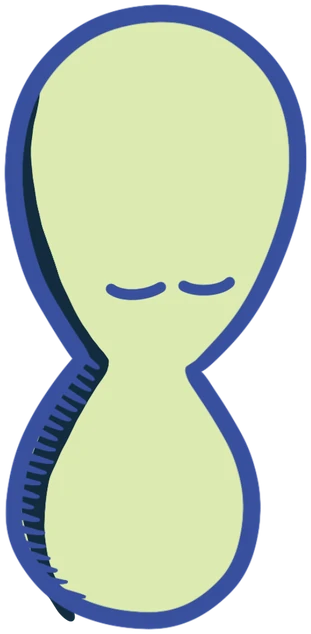
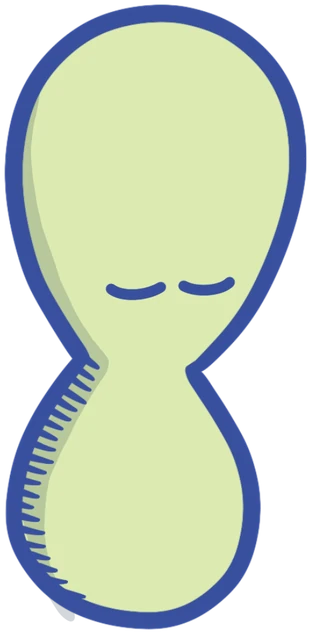
Shading at the card's opacity; no pink line under Transformación's ground
The shading of the two beings of Belleza (19, 23), of the three beings of Confianza (9), the moon's crater strokes in
Coraje (4) and the seed's shading in Transformación (25) were exported without their layer opacity: drawn at full
strength they came out near black and read as a fill shifted off its outline. Each converter now puts the opacity back
(18%, 10%, 50% and 34%, measured against the finished card: the error on those layers drops from 60-100 to 2-8 per
channel) and the pictures are made again; nothing else changed in them.

Transformación's sky gradient now turns to the ground's blue well below its horizon, so the pink no longer shows as a
line under the ground when the land slides with the scroll or the screen rounds its edge.

Claude-Session: https://claude.ai/code/session_01WTSfarsaRbQ4zQwAYYhqZ8

Changed region(s): [[0.0579, 0.1498, 0.3473, 0.989]]

diff --git a/src/components/scenes/SceneTransformacion.vue b/src/components/scenes/SceneTransformacion.vue
@@ -200,10 +200,16 @@
         near.enter({ y: -25, scale: 0.9, delay: 700, duration: 2200 });
     };
 
-    // The sky, from the card (flat pink, a little lighter low down where the card is)
+    // The sky, from the card (flat pink, a little lighter low down where the card is); under the ground the blue of the
+    // ground, so no pink shows under it when the land slides with the scroll or the screen rounds its edge (a pink line
+    // at the bottom of the stage on an iPhone)
+    const GROUND = '#69b8e2';
+    const UNDER = 1880;                     // art px: well inside the ground's solid blue, below its horizon everywhere
     const paintSky = () => {
-        const stops = art.sky.map(([y, c]) => `#${c.toString(16).padStart(6, '0')} ${Math.max(-50, Math.min(150, sy(y) / Math.max(H, 1) * 100)).toFixed(1)}%`);
-        root.value.style.background = `linear-gradient(to bottom, ${stops.join(', ')})`;
+        const at = (y) => `${Math.max(-50, Math.min(150, sy(y) / Math.max(H, 1) * 100)).toFixed(1)}%`;
+        const stops = art.sky.filter(([y]) => y < UNDER).map(([y, c]) => `#${c.toString(16).padStart(6, '0')} ${at(y)}`);
+        const last = `#${art.sky[art.sky.length - 1][1].toString(16).padStart(6, '0')}`;
+        root.value.style.background = `linear-gradient(to bottom, ${stops.join(', ')}, ${last} ${at(UNDER)}, ${GROUND} ${at(UNDER)}, ${GROUND} 100%)`;
     };
 
     const ellipse = ({ x, y, rx, ry }, grow = 1) => ({ left: sx(x - rx * grow), top: sy(y - ry * grow), w: 2 * rx * grow * k(), h: 2 * ry * grow * k() });
